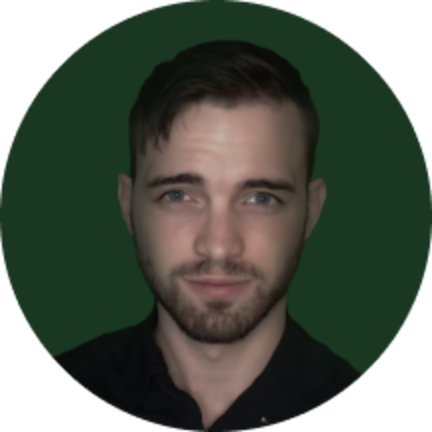
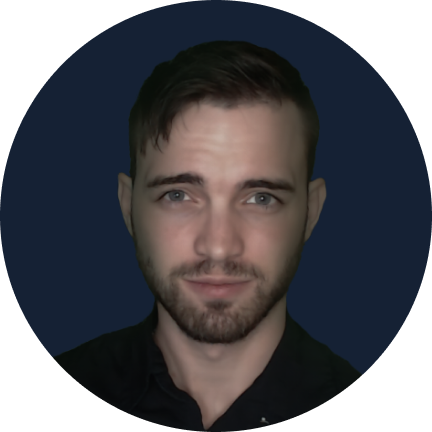
fix: repaint

diff --git a/src/components/sections/MainInfo/Features/Features.tsx b/src/components/sections/MainInfo/Features/Features.tsx
@@ -5,10 +5,11 @@ import Text from "components/common/Text/Text";
 
 const Features = () => {
   return (
-    <div data-aos="fade-up" className="grid grid-cols-1 lg:grid-cols-4 w-full mb-8 gap-x-4 gap-y-8 w-full ">
+    <div data-aos="fade-up" className="grid grid-cols-1 lg:grid-cols-4 w-full mb-8 gap-x-4 gap-y-8 w-full pt-10">
       <div className={styles.feature + " h-full pt-8 pb-8 lg:pt-0 flex flex-row-reverse lg:flex-col relative overflow-hidden lg:overflow-visible lg:items-center"}>
         <div className="absolute bottom-0 -right-4 sm:right-0 w-56 sm:w-2/5 lg:w-120p my-auto lg:my-0 h-48 flex items-center justify-end lg:justify-center md:h-full lg:h-32 sm:relative">
-          <img src="/main/map.png" className="absolute bottom-0 lg:-bottom-4 xl:-bottom-7 w-full sm:w-auto h-auto sm:h-full lg:h-auto lg:w-auto" />
+          <img src="/main/map.png" className="absolute z-20 bottom-0 lg:-bottom-4 xl:-bottom-2 w-full sm:w-auto h-auto sm:h-full lg:h-auto lg:w-auto" />
+          <img src="/main/fog.png" className="absolute z-10 bottom-0 lg:-bottom-4 xl:-bottom-2 w-full sm:w-auto h-auto sm:h-full lg:h-auto lg:w-auto" />
         </div>
         <div className="w-full sm:h-auto sm:w-3/5 lg:w-full pl-12 pr-12 sm:pr-0 lg:pl-8 lg:pr-8">
           <Text type="h3" className='text-left mb-2'>Vast open world, owned by players</Text>
@@ -18,8 +19,20 @@ const Features = () => {
         </div>
       </div>
       <div className={styles.feature + " h-full pt-8 pb-8 lg:pt-0 flex flex-row-reverse lg:flex-col relative overflow-hidden lg:overflow-visible lg:items-center"}>
-        <div className="flex absolute bottom-0 right-0 sm:right-0 w-56 sm:w-2/5 lg:w-120p my-auto lg:my-0 h-48 flex items-center justify-end lg:justify-center md:h-full lg:h-32 sm:relative ">
-          <img src="/main/battle.png" className="absolute bottom-0 lg:-bottom-2 xl:-bottom-7 w-full sm:w-auto h-auto sm:h-full lg:h-auto lg::w-auto" />
+        <div className="absolute bottom-0 -right-4 sm:right-0 w-56 sm:w-2/5 lg:w-120p my-auto lg:my-0 h-48 flex items-center justify-end lg:justify-center md:h-full lg:h-32 sm:relative">
+          <img src="/main/fog.png" className="absolute z-10 bottom-0 lg:-bottom-4 xl:-bottom-2 w-full sm:w-auto h-auto sm:h-full lg:h-auto lg:w-auto" />
+        </div>
+        <div className="w-full sm:h-auto sm:w-3/5 lg:w-full pl-12 pr-12 sm:pr-0 lg:pl-8 lg:pr-8">
+          <Text type="h3" className='text-left mb-2'>Player-driven economy</Text>
+          <Text type="h5" color="#8A978C" className='text-left'>
+            text
+          </Text>
+        </div>
+      </div>
+      <div className={styles.feature + " h-full pt-8 pb-8 lg:pt-0 flex flex-row-reverse lg:flex-col relative overflow-hidden lg:overflow-visible lg:items-center"}>
+        <div className="flex absolute bottom-0 right-0 sm:right-0 w-56 sm:w-2/5 lg:w-110p my-auto lg:my-0 h-48 flex items-center justify-end lg:justify-center md:h-full lg:h-32 sm:relative ">
+          <img src="/main/battle.png" className="absolute z-20 bottom-0 lg:-bottom-2 xl:-bottom-2 w-full sm:w-auto h-auto sm:h-full lg:h-auto lg::w-auto" />
+          <img src="/main/fog.png" className="absolute z-10 bottom-0 lg:-bottom-4 xl:-bottom-2 w-full sm:w-auto h-auto sm:h-full lg:h-auto lg:w-auto" />
         </div>
         <div className="w-full h-72 sm:h-auto sm:w-3/5 lg:w-full pl-12 pr-12 sm:pr-0 lg:pl-8 lg:pr-8">
           <Text type="h3" className='text-left mb-2'>Real-time, skill-based gameplay</Text>
@@ -28,17 +41,17 @@ const Features = () => {
           </Text>
         </div>
       </div>
-      {/* <div className={styles.feature + " h-full pt-8 pb-8 lg:pt-0 flex flex-row-reverse lg:flex-col relative overflow-hidden lg:overflow-visible "}>
-        <div className="absolute bottom-0 -right-4 sm:right-0 w-56 sm:w-2/5 lg:w-full my-auto lg:my-0 h-48 flex items-center justify-end lg:justify-center md:h-full lg:h-48 sm:relative">
-          <img src="/main/roleplaying.png" className="absolute bottom-0 lg:-bottom-2 xl:-bottom-7 w-full sm:w-auto xl:w-full h-auto sm:h-full lg:h-auto" />
+      <div className={styles.feature + " h-full pt-8 pb-8 lg:pt-0 flex flex-row-reverse lg:flex-col relative overflow-hidden lg:overflow-visible lg:items-center"}>
+        <div className="absolute bottom-0 -right-4 sm:right-0 w-56 sm:w-2/5 lg:w-120p my-auto lg:my-0 h-48 flex items-center justify-end lg:justify-center md:h-full lg:h-32 sm:relative">
+          <img src="/main/fog.png" className="absolute z-10 bottom-0 lg:-bottom-4 xl:-bottom-2 w-full sm:w-auto h-auto sm:h-full lg:h-auto lg:w-auto" />
         </div>
-        <div className="w-full sm:w-3/5 lg:w-full pl-12 pr-12 sm:pr-0 lg:pl-8 lg:pr-8">
-          <Text type="h3" className='text-left mb-2'>Rich 2D world</Text>
+        <div className="w-full sm:h-auto sm:w-3/5 lg:w-full pl-12 pr-12 sm:pr-0 lg:pl-8 lg:pr-8">
+          <Text type="h3" className='text-left mb-2'>Earn tokens and NFTs for free</Text>
           <Text type="h5" color="#8A978C" className='text-left'>
-            Filled with adventures and mysteries to uncover
+            text
           </Text>
         </div>
-      </div> */}
+      </div>
     </div>
   )
 }

diff --git a/src/components/sections/Token/parts/FleshToken.tsx b/src/components/sections/Token/parts/FleshToken.tsx
@@ -7,21 +7,21 @@ import { Breakpoints } from "common/constants/Breakpoints";
 const colStartBase = 8;
 
 const data = [
-  {src: '/flesh/1.png', text: 'Champion Tourney', columnStart: '', width: 295, height: 76, left: true},
-  {src: '/flesh/2.png', text: 'Group Raids', columnStart: '', width: 260, height: 76, left: true},
-  {src: '/flesh/3.png', text: 'Enchant', columnStart: `col-start-${colStartBase+1}`, mobileWidth: 204},
-  {src: '/flesh/4.png', text: 'Evolve', columnStart: `col-start-${colStartBase+2}`, mobileWidth: 187},
-  {src: '/flesh/5.png', text: 'Charms', columnStart: `col-start-${colStartBase+3}`, mobileWidth: 197},
-  {src: '/flesh/6.png', text: 'Accessories', columnStart: `col-start-${colStartBase+3}`, mobileWidth: 237},
-  {src: '/flesh/7.png', text: 'Weapons', columnStart: `col-start-${colStartBase+2}`, mobileWidth: 208},
-  {src: '/flesh/8.png', text: 'Unique items', columnStart: `col-start-${colStartBase+1}`, mobileWidth: 238},
-  {src: '/flesh/9.png', text: 'Promote soldiers', columnStart: `col-start-${colStartBase}`, mobileWidth: 284},
+  { src: '/flesh/1.png', text: 'Champion Tourney', columnStart: '', width: 295, height: 76, left: true },
+  { src: '/flesh/2.png', text: 'Group Raids', columnStart: '', width: 260, height: 76, left: true },
+  { src: '/flesh/3.png', text: 'Enchant', columnStart: `col-start-${colStartBase + 1}`, mobileWidth: 204 },
+  { src: '/flesh/4.png', text: 'Evolve', columnStart: `col-start-${colStartBase + 2}`, mobileWidth: 187 },
+  { src: '/flesh/5.png', text: 'Charms', columnStart: `col-start-${colStartBase + 3}`, mobileWidth: 197 },
+  { src: '/flesh/6.png', text: 'Accessories', columnStart: `col-start-${colStartBase + 3}`, mobileWidth: 237 },
+  { src: '/flesh/7.png', text: 'Weapons', columnStart: `col-start-${colStartBase + 2}`, mobileWidth: 208 },
+  { src: '/flesh/8.png', text: 'Unique items', columnStart: `col-start-${colStartBase + 1}`, mobileWidth: 238 },
+  { src: '/flesh/9.png', text: 'Promote soldiers', columnStart: `col-start-${colStartBase}`, mobileWidth: 284 },
 ]
 
 const FleshToken = () => {
   const isXl = useMatchMediaQuery(`(min-width: ${Breakpoints.xl}px)`)
 
-  const {isDesktop} = useMediaQuery();
+  const { isDesktop } = useMediaQuery();
 
   const infoSection = useMemo(() => {
     return (
@@ -36,15 +36,15 @@ const FleshToken = () => {
     return (
       <>
         {data.map((item, i) => {
-          if(!item.left) {
+          if (!item.left) {
             return;
           }
 
           const width = isXl ? 300 : item.mobileWidth || item.width;
           return (
-            <div key={i} className={`col-start-1 row-start-${i+3} flex xl:justify-end`} style={{width}}>
-              <div className={styles.containerLeft + ' m-2 xl:m-0'} style={{width: item.width, height: item.height}}>
-                <img src={item.src} style={{width: 50, height: 50, marginRight: 10}}/>
+            <div key={i} className={`col-start-1 row-start-${i + 3} flex xl:justify-end`} style={{ width }}>
+              <div className={styles.containerLeft + ' m-2 xl:m-0'} style={{ width: item.width, height: item.height }}>
+                <img src={item.src} style={{ width: 50, height: 50, marginRight: 10 }} />
                 <Text type="h5">
                   {item.text}
                 </Text>
@@ -68,15 +68,15 @@ const FleshToken = () => {
     return (
       <>
         {data.map((item, i) => {
-          if(item.left) {
+          if (item.left) {
             return;
           }
 
-          const className = ` m-2 xl:m-0 self-center row-start-${i-1} ${item.columnStart} row-span-1`;
+          const className = ` m-2 xl:m-0 self-center row-start-${i - 1} ${item.columnStart} row-span-1`;
           const width = !isXl ? item.mobileWidth : item.width || 240;
           return (
-            <div key={i} className={styles.containerRight + className} style={{width}}>
-              <img src={item.src} style={{width: 50, height: 50, marginRight: 10}}/>
+            <div key={i} className={styles.containerRight + className} style={{ width }}>
+              <img src={item.src} style={{ width: 50, height: 50, marginRight: 10 }} />
               <Text type="h5">
                 {item.text}
               </Text>
@@ -87,9 +87,9 @@ const FleshToken = () => {
     )
   }, [isXl]);
 
-  if(isXl) {
+  if (isXl) {
     return (
-      <div className="grid grid-cols-12 gap-2">
+      <div className="grid grid-cols-12 gap-3">
         {infoSection}
         {leftSection}
         {imageSection}
@@ -99,18 +99,18 @@ const FleshToken = () => {
   }
 
   return (
-     <>
-        {infoSection}
-        <div className="flex justify-center flex-wrap">
-          {leftSection}
-        </div>
+    <>
+      {infoSection}
+      <div className="flex justify-center flex-wrap">
+        {leftSection}
+      </div>
 
-        {imageSection}
+      {imageSection}
 
-        <div className="flex flex-wrap justify-center">
-          {rightSection}
-        </div>
-     </>
+      <div className="flex flex-wrap justify-center">
+        {rightSection}
+      </div>
+    </>
   )
 }
 

diff --git a/src/components/svg/TokenBackground/TokenBackground.tsx b/src/components/svg/TokenBackground/TokenBackground.tsx
@@ -2,18 +2,18 @@ import React from "react";
 
 const TokenBackground = () => {
   return (
-    <div style={{top: -660, left: '-50%'}} className="w-full h-full z-10 relative">
-      <svg style={{width: '190%'}} width="2576" height="2380" viewBox="0 0 2576 2745" fill="none" xmlns="http://www.w3.org/2000/svg">
-        <path opacity="0.6" d="M1033.44 1025.38C827.246 921.955 603.926 972.369 507.532 1181.94C433.23 1343.48 398.276 1512.02 406.081 1671.12C413.886 1830.21 464.183 1974.43 552.063 2089.68C639.944 2204.94 762.406 2287.3 907.497 2328.73C1052.59 2370.16 1215.35 2369.24 1379.9 2326.07C1544.45 2282.89 1705.17 2198.93 1846.37 2082.39C1987.57 1965.84 2104.42 1820.68 2185.53 1661.09C2307.5 1421.08 2071.32 1204.85 1804.67 1241.92L1703.04 1256.05C1596.1 1270.92 1487.16 1252.96 1390.65 1204.55L1033.44 1025.38Z" fill="url(#paint0_radial)"/>
-        <path opacity="0.6" d="M1113.47 1179.94C846.901 1073.61 530.336 1208.06 536.813 1494.98C536.961 1501.55 537.164 1508.11 537.422 1514.66C544.303 1689.54 590.005 1851.65 670.067 1985.19C750.128 2118.72 861.815 2219.12 994.227 2276.57C1126.64 2334.03 1275.25 2346.58 1425.56 2313C1575.87 2279.43 1722.75 2200.87 1851.85 2085C1980.95 1969.13 2087.87 1819.91 2162.17 1651.89C2236.47 1483.87 2275.61 1302.8 2275.78 1126.36C2276.03 870.45 1978.75 803.83 1784.8 970.769L1644.97 1091.12C1498.19 1217.45 1293.34 1251.68 1113.47 1179.94Z" fill="url(#paint1_radial)"/>
+    <div style={{ top: -660, left: '-50%' }} className="w-full h-full z-10 relative">
+      <svg style={{ width: '190%' }} width="2576" height="2380" viewBox="0 0 2576 2745" fill="none" xmlns="http://www.w3.org/2000/svg">
+        <path opacity="0.6" d="M1033.44 1025.38C827.246 921.955 603.926 972.369 507.532 1181.94C433.23 1343.48 398.276 1512.02 406.081 1671.12C413.886 1830.21 464.183 1974.43 552.063 2089.68C639.944 2204.94 762.406 2287.3 907.497 2328.73C1052.59 2370.16 1215.35 2369.24 1379.9 2326.07C1544.45 2282.89 1705.17 2198.93 1846.37 2082.39C1987.57 1965.84 2104.42 1820.68 2185.53 1661.09C2307.5 1421.08 2071.32 1204.85 1804.67 1241.92L1703.04 1256.05C1596.1 1270.92 1487.16 1252.96 1390.65 1204.55L1033.44 1025.38Z" fill="url(#paint0_radial)" />
+        <path opacity="0.6" d="M1113.47 1179.94C846.901 1073.61 530.336 1208.06 536.813 1494.98C536.961 1501.55 537.164 1508.11 537.422 1514.66C544.303 1689.54 590.005 1851.65 670.067 1985.19C750.128 2118.72 861.815 2219.12 994.227 2276.57C1126.64 2334.03 1275.25 2346.58 1425.56 2313C1575.87 2279.43 1722.75 2200.87 1851.85 2085C1980.95 1969.13 2087.87 1819.91 2162.17 1651.89C2236.47 1483.87 2275.61 1302.8 2275.78 1126.36C2276.03 870.45 1978.75 803.83 1784.8 970.769L1644.97 1091.12C1498.19 1217.45 1293.34 1251.68 1113.47 1179.94Z" fill="url(#paint1_radial)" />
         <defs>
           <radialGradient id="paint0_radial" cx="0" cy="0" r="1" gradientUnits="userSpaceOnUse" gradientTransform="translate(1357.07 1399.73) rotate(-45.9291) scale(1063.07 834.739)">
-            <stop stopColor="#184726"/>
-            <stop offset="1" stopColor="#102817"/>
+            <stop stopColor="#273858" />
+            <stop offset="1" stopColor="#080F1B" />
           </radialGradient>
           <radialGradient id="paint1_radial" cx="0" cy="0" r="1" gradientUnits="userSpaceOnUse" gradientTransform="translate(1406.15 1296.67) rotate(-68.2549) scale(1063.07 834.74)">
-            <stop stopColor="#184726"/>
-            <stop offset="1" stopColor="#102817"/>
+            <stop stopColor="#273858" />
+            <stop offset="1" stopColor="#080F1B" />
           </radialGradient>
         </defs>
       </svg>

diff --git a/src/components/sections/MainInfo/Prizes/Prizes.tsx b/src/components/sections/MainInfo/Prizes/Prizes.tsx
@@ -7,38 +7,38 @@ import Text from "components/common/Text/Text";
 const Prizes = () => {
   return (
     <div data-aos="fade-up" className="flex mx-auto flex-col lg:flex-row w-full xl:max-w-screen-xxl mt-12 z-40">
-      <div className={styles.usdc + " grid grid-cols-3 lg:w-3/5 lg:mr-5 mb-8"}>
+      <div className={styles.usdc + " grid grid-cols-3 lg:w-1/2 lg:mr-5 mb-8"}>
         <div className="col-span-2">
-          <Text type="h2" className={styles.h2}>30 000 USDC</Text>
+          <Text type="h2">Win NFT and Knightland tokens</Text>
         </div>
-        <div className="self-end row-span-3 md:-mt-20 md:self-center">
-          <picture>
-            <source media="(max-width: 768px)" srcSet="/main/boxM.png" />
-            <source media="(min-width: 769px)" srcSet="/main/box.png" />
-            <img src="/main/box.png" className="" />
-          </picture>
+        <div className="self-end row-span-3 md:self-center relative md:h-full">
+          <div className="lg:absolute lg:-top-12">
+            {/* <picture>
+              <source media="(max-width: 768px)" srcSet="/main/prizeM.png" />
+              <source media="(min-width: 769px)" srcSet="/main/prize.png" />
+              <img src="/main/prize.png" className="" />
+            </picture> */}
+          </div>
         </div>
         <div className="col-span-2">
           <Text type="h5" color="#8A978C" maxWidth={332}>
-            Become one of a Top 100 Knights in Grand Royale and win USDC before 1st December!
-            {/* <span className="ml-1.5" style={{color: '#FFEB3D'}}>
-                Read Terms
-            </span> */}
-            {/* <Timer /> */}
+            text
           </Text>
         </div>
       </div>
 
-      <div className={styles.usdc + " grid grid-cols-3 w-full lg:w-2/5 mb-8"}>
+      <div className={styles.usdc + " grid grid-cols-3 w-full lg:w-1/2 mb-8"}>
         <div className="col-span-2">
           <Text type="h2">Earn FLESH token</Text>
         </div>
-        <div className="self-end row-span-3 md:-mt-20 md:self-center">
-          <picture>
-            <source media="(max-width: 768px)" srcSet="/main/prizeM.png" />
-            <source media="(min-width: 769px)" srcSet="/main/prize.png" />
-            <img src="/main/prize.png" className="" />
-          </picture>
+        <div className="self-end row-span-3 md:self-center relative md:h-full">
+          <div className="lg:absolute lg:-top-12">
+            <picture>
+              <source media="(max-width: 768px)" srcSet="/main/prizeM.png" />
+              <source media="(min-width: 769px)" srcSet="/main/prize.png" />
+              <img src="/main/prize.png" className="" />
+            </picture>
+          </div>
         </div>
         <div className="col-span-2">
           <Text type="h5" color="#8A978C" maxWidth={332}>

diff --git a/src/components/sections/Roadmap/styles.module.css b/src/components/sections/Roadmap/styles.module.css
@@ -18,8 +18,8 @@
     display: flex;
     justify-content: center;
     align-items: center;
-    background: radial-gradient(67.24% 67.24% at 50% 100%, rgba(235, 208, 67, 0.4) 0%, rgba(124, 134, 61, 0.4) 100%), #0E3419;
-    box-shadow: 0 4px 20px rgba(255, 235, 61, 0.37);
+    background: radial-gradient(67.24% 67.24% at 50% 100%, rgba(112, 194, 253, 0.4) 0%, rgba(28, 91, 136, 0.4) 100%), #0E1634;
+    box-shadow: 0 4px 20px rgba(170, 224, 255, 0.37);
     border-radius: 50%;
 }
 
@@ -27,7 +27,7 @@
     width: 31px;
     height: 31px;
     margin-right: 16px;
-    border: 1px solid #5E7565;
+    border: 1px solid #B9B9B9;
     display: flex;
     justify-content: center;
     align-items: center;
@@ -38,11 +38,11 @@
 .line {
     width: 46px;
     height: 3px;
-    background: -webkit-gradient(linear, left top, right top, color-stop(0%, #8A978C), color-stop(100%, #132B1A));
-    background: -moz-linear-gradient(left, #8A978C 0%, #132B1A 100%);
-    background: -webkit-linear-gradient(left, #8A978C 0%, #132B1A 100%);
-    background: -o-linear-gradient(left, #8A978C 0%, #132B1A 100%);
-    background: -ms-linear-gradient(left, #8A978C 0%, #132B1A 100%);
-    background: linear-gradient(to right, #8A978C 0%, #132B1A 100%);
+    background: -webkit-gradient(linear, left top, right top, color-stop(0%, #8A978C), color-stop(100%, #000000));
+    background: -moz-linear-gradient(left, #8A978C 0%, #000000 100%);
+    background: -webkit-linear-gradient(left, #8A978C 0%, #000000 100%);
+    background: -o-linear-gradient(left, #8A978C 0%, #000000 100%);
+    background: -ms-linear-gradient(left, #8A978C 0%, #000000 100%);
+    background: linear-gradient(to right, #8A978C 0%, #000000 100%);
 }
 

diff --git a/src/components/sections/Token/parts/styles.module.css b/src/components/sections/Token/parts/styles.module.css
@@ -2,7 +2,7 @@
     --width: 100%;
     --height: 100%;
     position: relative;
-    background: radial-gradient(50% 50% at 50.04% 0%, rgba(148, 200, 163, 0.2) 0%, rgba(16, 40, 23, 0.2) 100%), #16321E;
+    background: radial-gradient(50% 50% at 50.04% 0%, rgba(148, 169, 200, 0.2) 0%, rgba(16, 20, 40, 0.2) 100%), #0E1D36;
     border-radius: 50px;
     display: flex;
     justify-content: flex-start;
@@ -13,7 +13,7 @@
     border-radius: 50px;
     width: calc(var(--width) + 8px);
     height: calc(var(--height) + 6px);
-    background: linear-gradient(180deg, #CCC8A2 0%, #5A4E3C 100%);
+    background: linear-gradient(180deg, #B0AE97 0%, #50473A 100%);
     content: '';
     padding: 10px;
     top: -3px;
@@ -26,7 +26,7 @@
     width: calc(var(--width) + 8px);
     height: calc(var(--height) + 6px);
     content: '';
-    background: linear-gradient(180deg, #365F42 0%, rgba(119, 147, 127, 0.74) 100%);
+    background: linear-gradient(180deg, #2D4671 0%, rgba(44, 61, 82, 0.74) 100%);
     padding: 10px;
     top: -3px;
     left: -4px;
@@ -51,6 +51,6 @@
 .percent {
     border-radius: 4px;
     padding: 12px 20px;
-    border: 2px solid #365F42;
-    background: radial-gradient(50% 9500.87% at 98.81% 0%, rgba(148, 200, 163, 0.2) 0%, rgba(148, 200, 163, 0.2) 0.01%, rgba(16, 40, 23, 0.2) 100%), linear-gradient(0deg, #16321E, #16321E);
+    border: 2px solid #284F93;
+    background: radial-gradient(50% 9500.87% at 98.81% 0%, rgba(148, 169, 200, 0.2) 0%, rgba(148, 163, 200, 0.2) 0.01%, rgba(16, 20, 40, 0.2) 100%), #0A1B38;
 }

diff --git a/src/components/sections/Footer/Footer.tsx b/src/components/sections/Footer/Footer.tsx
@@ -8,12 +8,12 @@ import { useMediaQuery } from "common/helpers/useMediaQuery";
 
 const Footer = () => {
   return (
-    <div className={styles.footer + ' flex w-full flex-col self-center md:pt-20 lg:pb-6'}>
+    <div className={styles.footer + ' flex w-full flex-col self-center md:pt-20 lg:pb-12'}>
       <Container disableVerticalPadding={true}>
         <div className="flex w-full justify-between flex-col items-center md:flex-row pt-28 pb-14 px-8 md:px-0 lg:pb-0">
           <div className="flex items-center mb-10 md:mb-0">
-            <div className="w-48 md:mr-7">
-              <img src="/common/logo.svg" className="mr-0" />
+            <div className="w-48 md:mr-7 flex justify-center md:justify-start">
+              <img src="/common/klLogo.png" className="mr-0" />
             </div>
           </div>
           <div className="flex items-center">

diff --git a/src/components/sections/Header/Header.tsx b/src/components/sections/Header/Header.tsx
@@ -44,7 +44,7 @@ const Header = () => {
       <div className="flex w-full justify-between max-w-6xl">
         <div className="flex items-center">
           <div className="w-28 md:w-30 mr-10 cursor-pointer" onClick={() => onClickToLink(HeaderLink.MAIN)}>
-            <img src="/common/logo.svg" className="mr-0" />
+            <img src="/common/klLogo.png" className="mr-0" />
           </div>
           {HeaderLinks.map((item, i) => {
             if (!item.isVisible) return;

diff --git a/src/components/sections/MainInfo/Features/styles.module.css b/src/components/sections/MainInfo/Features/styles.module.css
@@ -1,5 +1,5 @@
 .feature {
-    background: radial-gradient(63.06% 63.06% at 50.04% 0%, rgba(138, 151, 140, 0.4) 0%, rgba(16, 40, 23, 0.4) 100%), linear-gradient(180deg, rgba(20, 18, 1, 0.07) 0%, rgba(143, 159, 148, 0.07) 100%);
+    background: radial-gradient(63.06% 63.06% at 50.04% 0%, rgba(138, 143, 151, 0.4) 0%, rgba(15, 28, 74, 0.4) 100%), linear-gradient(180deg, rgba(1, 5, 20, 0.07) 0%, rgba(143, 146, 159, 0.07) 100%);
     border-radius: 40px;
     min-height: 303px;
 }

diff --git a/src/components/sections/Partners/styles.module.css b/src/components/sections/Partners/styles.module.css
@@ -1,4 +1,5 @@
 .root {
-    background: radial-gradient(50% 50% at 50.04% 0%, rgba(85, 140, 101, 0.2) 0%, rgba(16, 40, 23, 0.2) 100%), #16321E;
+    background: radial-gradient(63.06% 63.06% at 50.04% 0%, rgba(138, 143, 151, 0.4) 0%, rgba(15, 28, 74, 0.4) 100%), linear-gradient(180deg, rgba(1, 5, 20, 0.07) 0%, rgba(143, 146, 159, 0.07) 100%);
     border-radius: 16px;
+    border: 1px solid #284F93;
 }

diff --git a/src/styles/common.module.css b/src/styles/common.module.css
@@ -1,6 +1,6 @@
 .board {
     width: 100%;
-    background: radial-gradient(50% 50% at 50.04% 0%, rgba(85, 140, 101, 0.2) 0%, rgba(16, 40, 23, 0.2) 100%), #16321E;
+    background: radial-gradient(50% 50% at 50.04% 0%, rgba(74, 111, 167, 0.2) 0%, rgba(13, 20, 32, 0.2) 100%), #0E1D36;
     border-radius: 50px;
     margin-bottom: 132px;
 }

diff --git a/src/components/sections/MainInfo/FreeToPlay/styles.module.css b/src/components/sections/MainInfo/FreeToPlay/styles.module.css
@@ -1,5 +1,5 @@
 .background {
-    background: radial-gradient(50% 50% at 50.04% 0%, rgba(85, 140, 101, 0.2) 0%, rgba(16, 40, 23, 0.2) 100%), #16321E;
+    background: radial-gradient(50% 50% at 50.04% 0%, rgba(74, 111, 167, 0.2) 0%, rgba(13, 20, 32, 0.2) 100%), #0E1D36;
     border-radius: 40px;
     min-height: 303px;
 }
